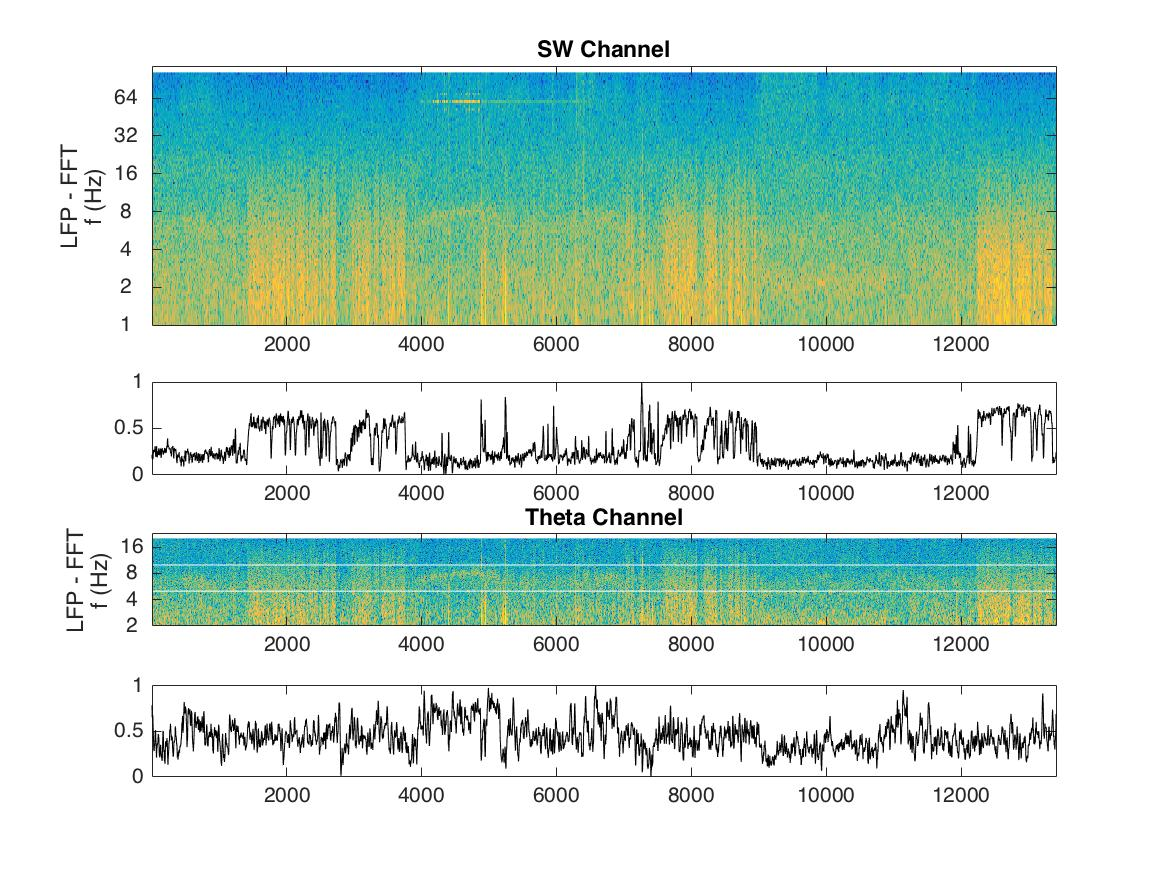
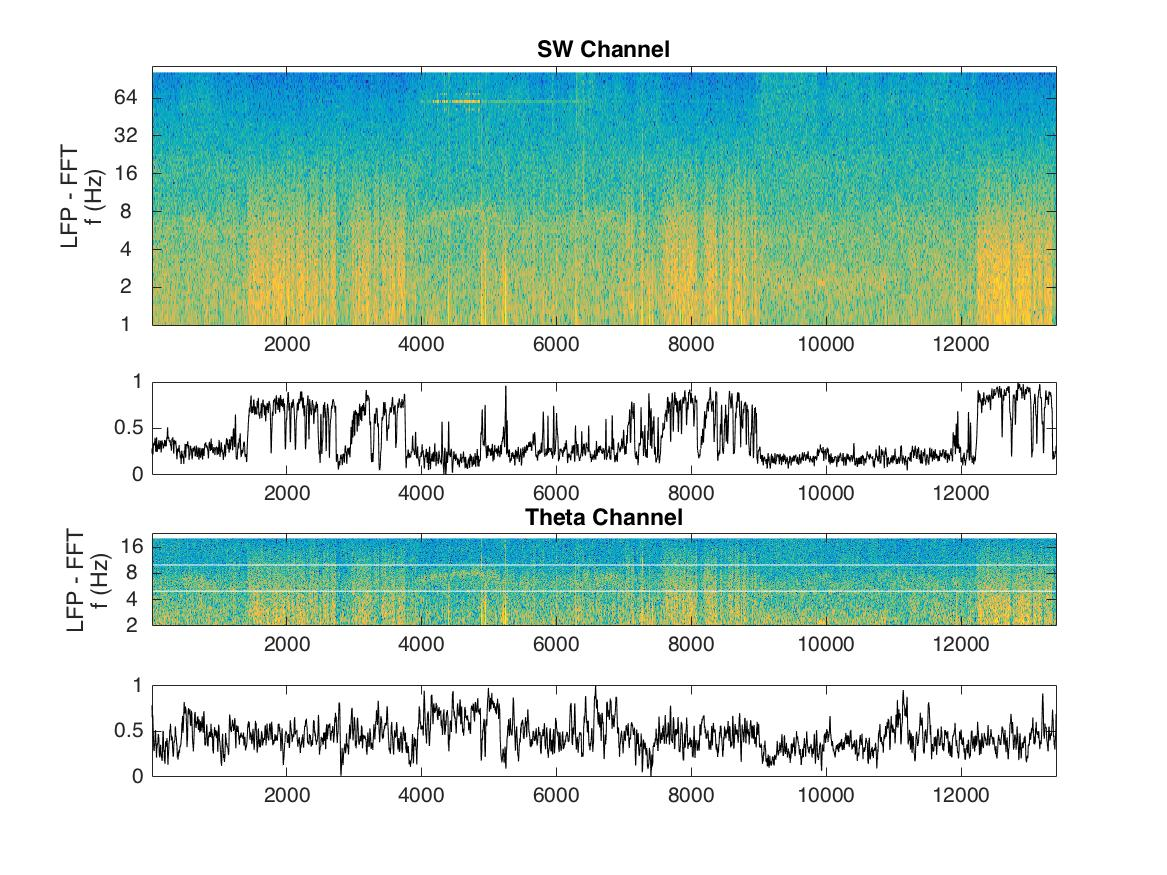
Towards incorporating pickchannel

Changed region(s): [[0.1234, 0.432, 0.9254, 0.5554]]

diff --git a/SleepScoreMaster.m b/SleepScoreMaster.m
@@ -62,12 +62,10 @@ swlfppath = fullfile(datasetfolder,recordingname,[recordingname,'_SWLFP.mat']);
 
 if ~exist(EMGpath,'file')
 
-
     EMGCorr = EMGCorrForSleepscore(sessionfolder,recordingname);%BW modify this to have different dependencies, currently assumes presence of: 
     % eeg filename - ok
     % .xml filename - ok
     %     Save ..._EMGCorr file
-
 
 else
     load(EMGpath,'EMGCorr')
@@ -80,6 +78,16 @@ clear EMGCorr
 %Possibility - use multiple channels for concensus, find one good SWChannel
 %from each shank? - could even use all SW for clustering - will improve
 %both time resolution and reliability
+
+%Possbile cases:
+%   -SW,TH channel picked and have .mat
+%   -SW,TH channel picked but need to be loaded from .eeg -> save a .mat
+%   -SW,TH channel not picked
+
+%To Do: get LoadLFP (or other) to load already downsampled LFP....
+%Then return channel and load for .mat and Clustering
+
+
 
 if ~exist(thetalfppath,'file')% if no lfp file already, load lfp and make lfp file?
     if exist (fullfile(datasetfolder,recordingname,[recordingname,'.lfp']),'file')
@@ -102,6 +110,9 @@ else
     load(swlfppath,'swLFP')
     load(thetalfppath,'thLFP')
 end
+
+%If nothing is picked.
+    [SWchannum,THchannum,thLFP,swLFP] = PickSWTHChannel(datasetfolder,recname,figfolder);
 
 
 %% CLUSTER STATES BASED ON SLOW WAVE, THETA, EMG

diff --git a/PickSWTHChannel.m b/PickSWTHChannel.m
@@ -1,4 +1,4 @@
-function [ SWchannum,THchannum,THratio,PC1power] = PickSWTHChannel(datasetfolder,recname,figfolder)
+function [SWchannum,THchannum,thLFP,swLFP] = PickSWTHChannel(datasetfolder,recname,figfolder)
 %UNTITLED Summary of this function goes here
 %   Detailed explanation goes here
 %% DEV
@@ -112,9 +112,15 @@ end
 
 goodSWidx = dipsortSW(end);
 goodTHidx = dipsortTH(end);
+SWchan = goodSWidx+1;
+THchan = goodTHidx+1;
+
+swLFP = allLFP(:,SWchan);
+thLFP = allLFP(:,THchan);
 
 SWchannum = goodSWidx-2;
 THchannum = goodTHidx-2;
+
 
 
 %% Find Inverted PC1s and flip them
@@ -191,13 +197,15 @@ thfig = figure;
 saveas(thfig,[figfolder,recname,'_FindBestTH'],'jpeg')
 %% Show Channels
 
-SWchan = goodSWidx+1;
-THchan = goodTHidx+1;
 
     %Calculate PC1 for plot/return
     [FFTspec,FFTfreqs,t_FFT] = spectrogram(allLFP(:,SWchan),window,noverlap,freqlist,sf_LFP);
     FFTspec = abs(FFTspec);
     [zFFTspec,mu,sig] = zscore(log10(FFTspec)');
+
+    totz = zscore(abs(sum(zFFTspec')));
+    badtimes = find(totz>5);
+    zFFTspec(badtimes,:) = 0;
     
     smoothfact = 10; %si_FFT
     thsmoothfact = 15;
